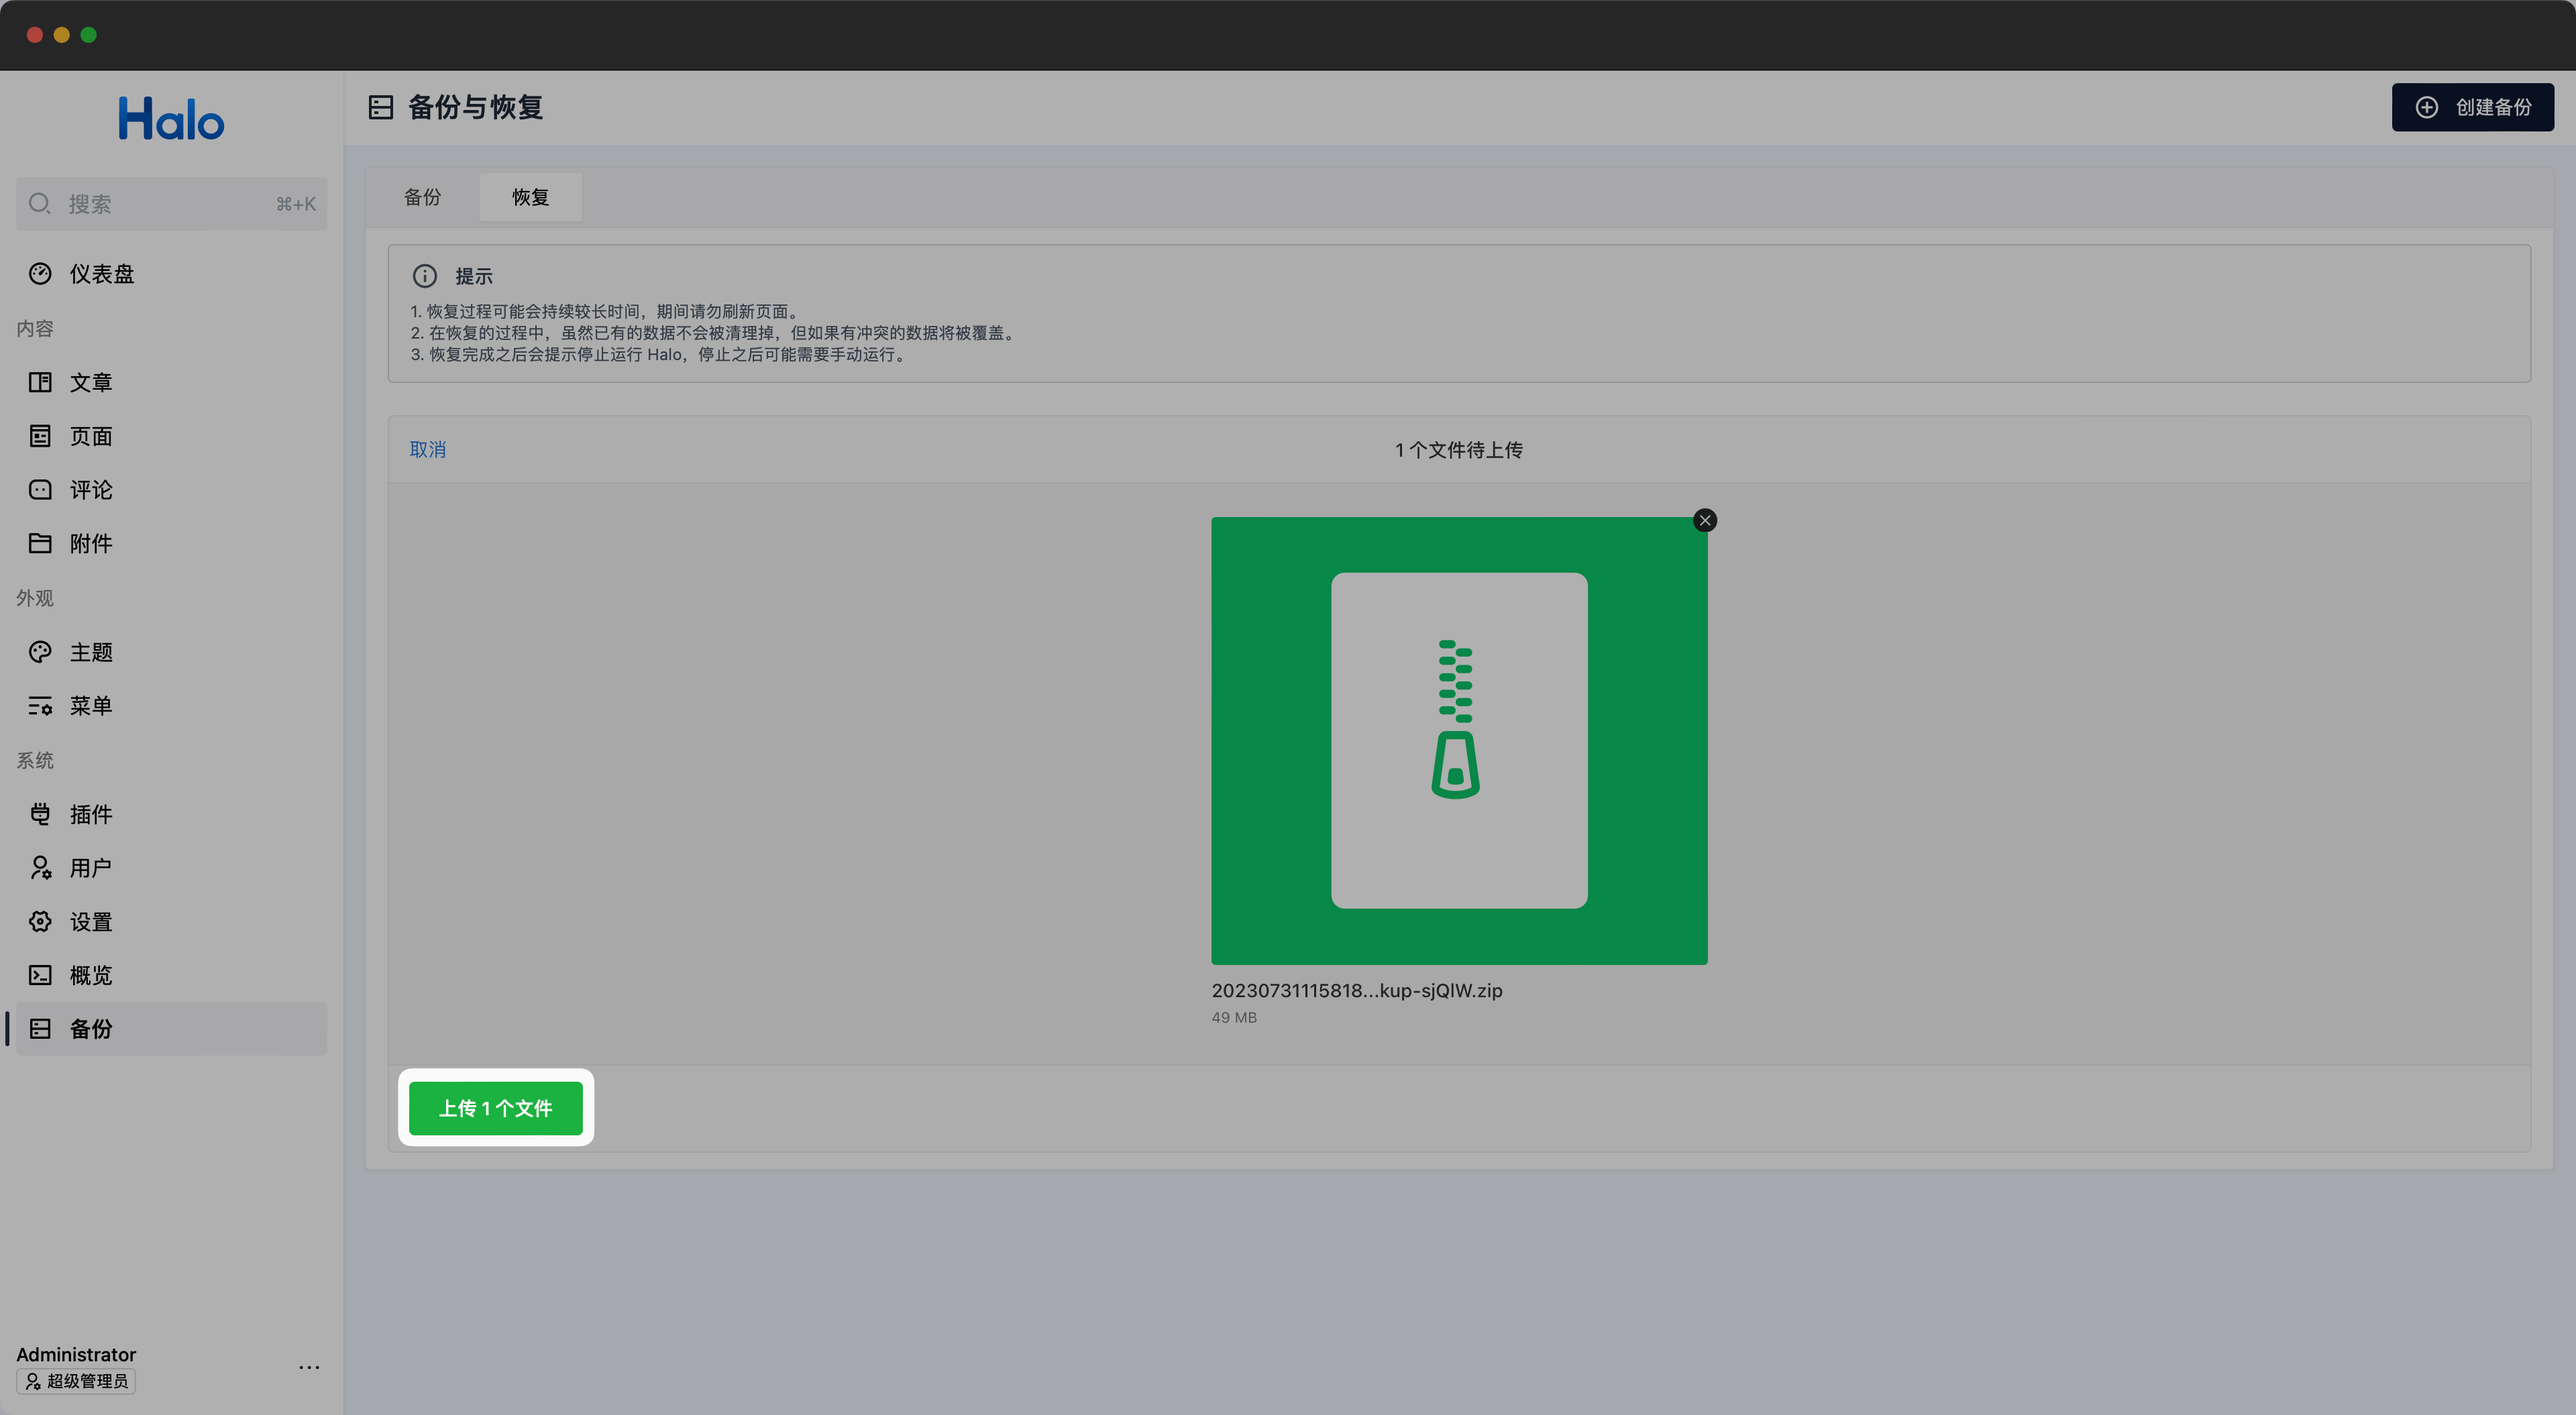
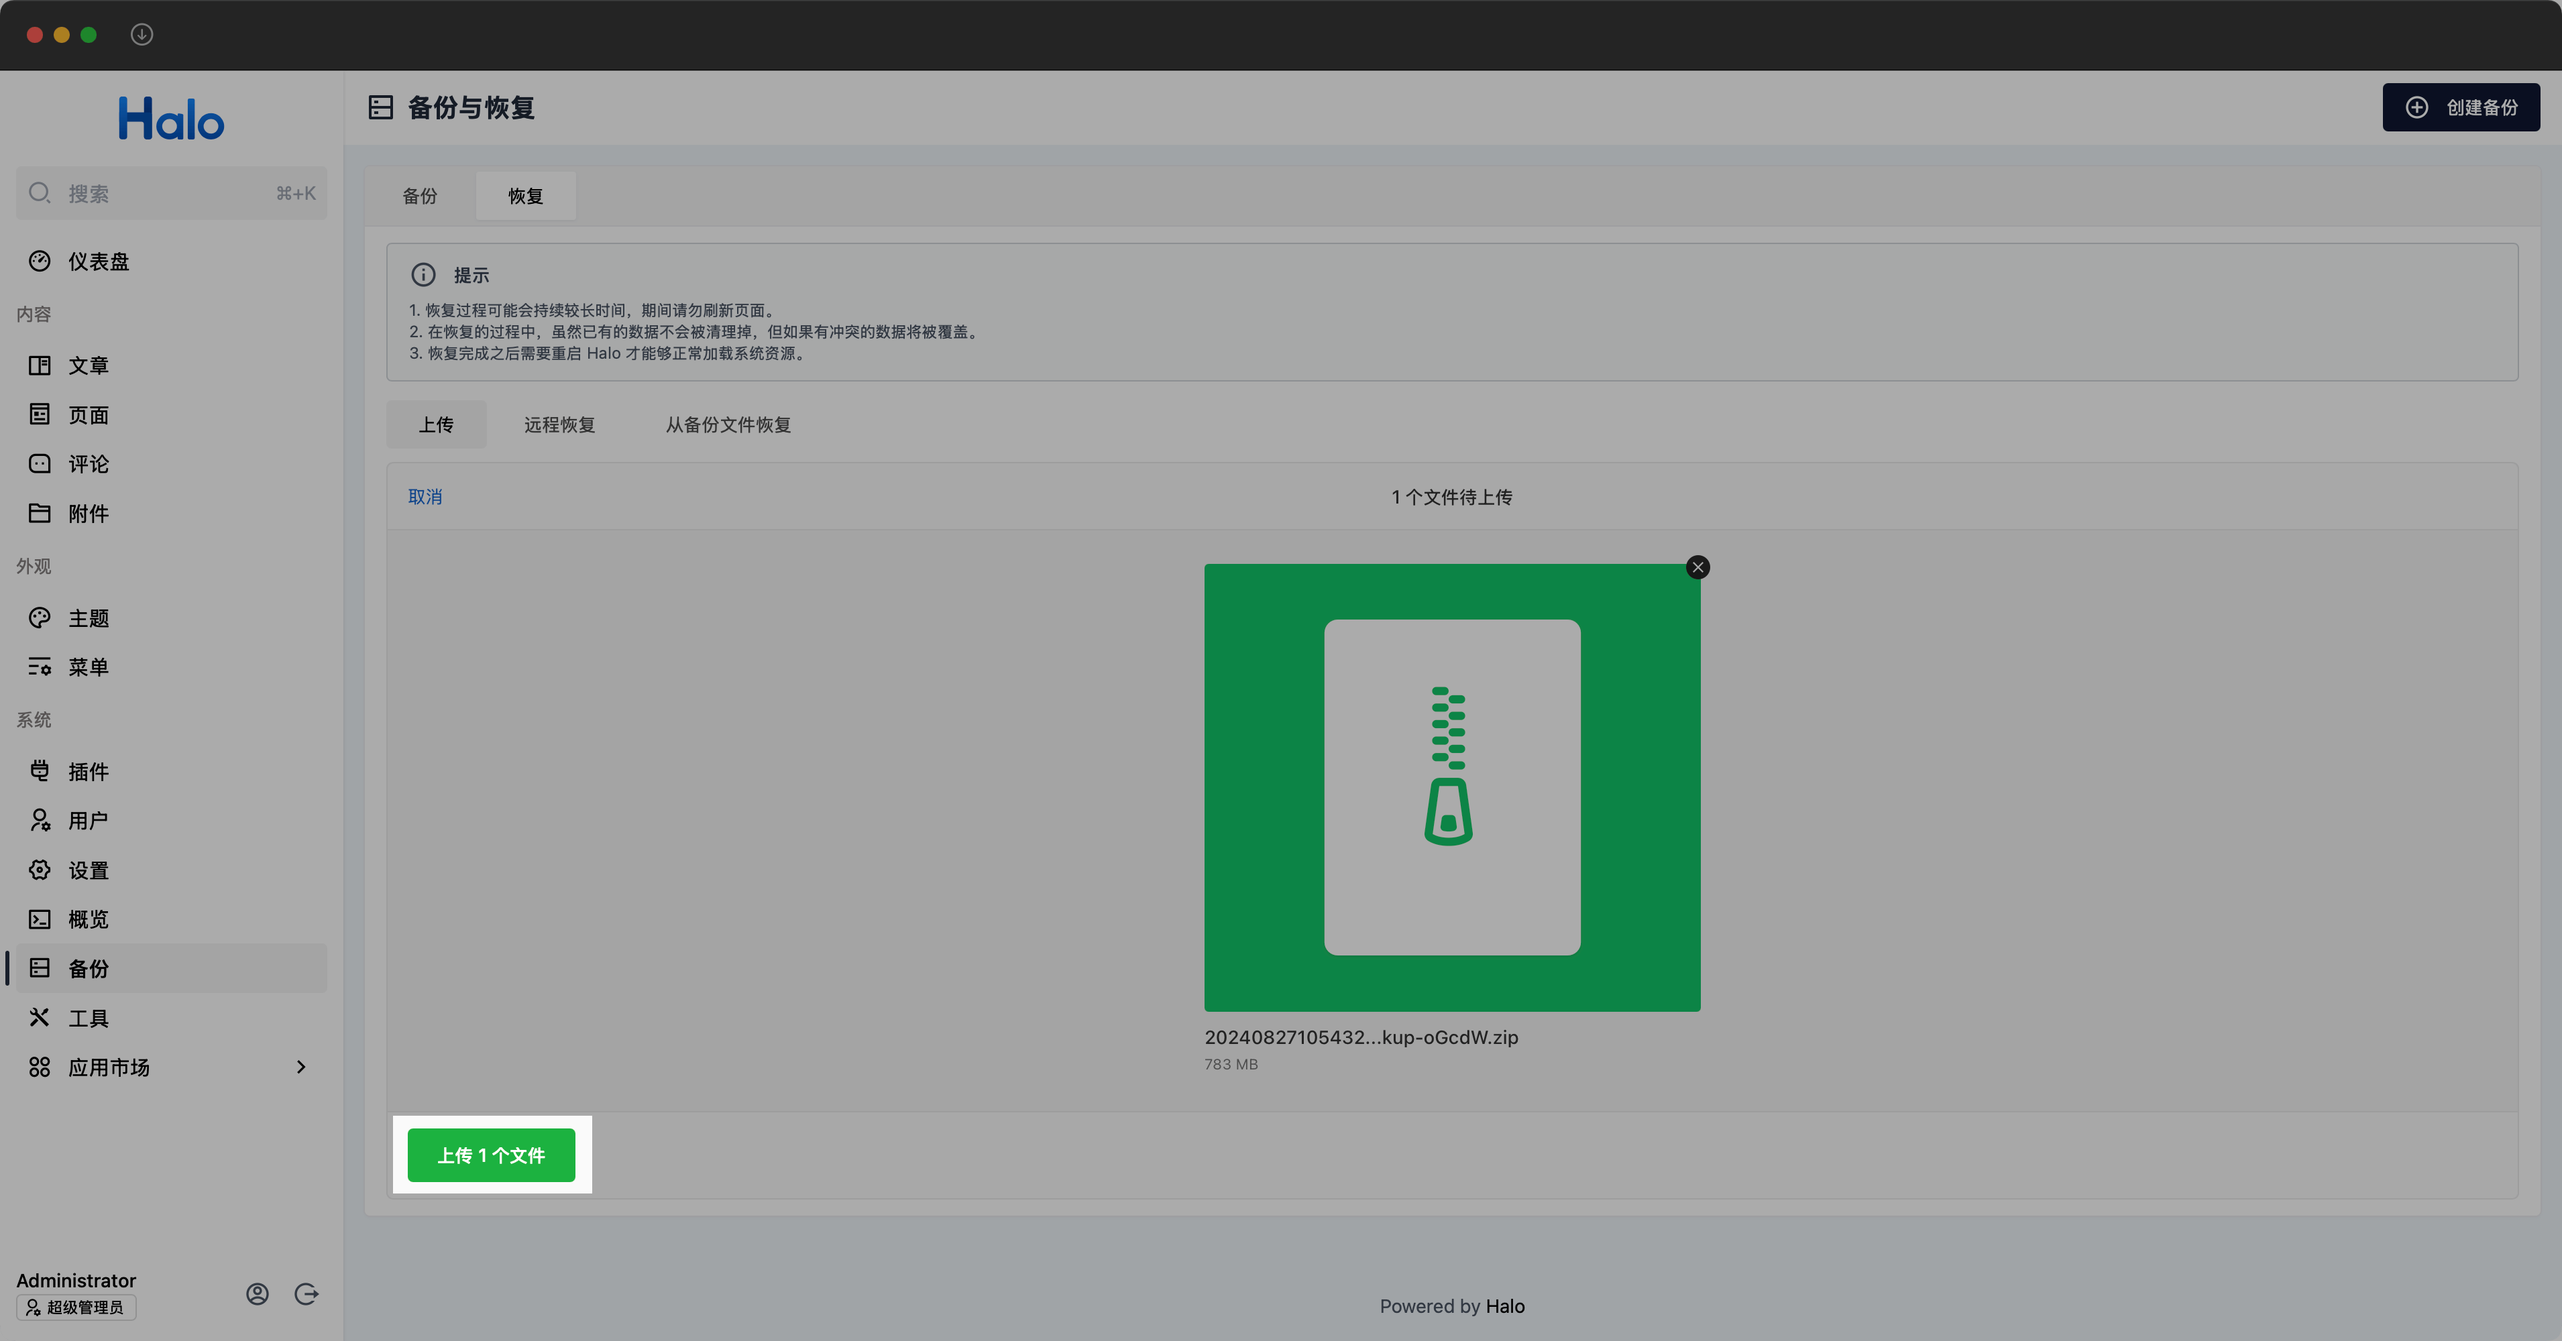
docs: update backup documentation (#406)
完善了恢复方式的文档。

/kind documentation

Fixes https://github.com/halo-dev/docs/issues/401

```release-note
None
```

diff --git a/docs/user-guide/backup.md b/docs/user-guide/backup.md
@@ -36,6 +36,18 @@ description: 备份与恢复功能说明
 ![Before restore](/img/user-guide/backup/before-restore.png)
 ![Restore](/img/user-guide/backup/restore.png)
 
+Halo 支持三种恢复方式：
+
+1. 上传备份文件：上传已有的备份文件进行恢复。
+2. 远程恢复：从远程 URL 下载备份文件进行恢复。
+3. 从备份文件恢复：支持从 [工作目录](../getting-started/prepare.md#工作目录) 的 backups 目录扫描备份文件，并选择文件进行恢复。
+
+:::info 提示
+如果你的备份文件较大，推荐提前将备份文件上传到服务器，然后选择 `从备份文件恢复` 方式进行恢复，避免因为网络原因导致上传失败。
+:::
+
+使用 `上传备份文件` 方式进行恢复的操作示例：
+
 选择备份文件后，点击 `上传` 按钮即可开始上传备份文件，上传完成后会自动开始恢复。
 
 ![Restore upload](/img/user-guide/backup/restore-upload.png)
